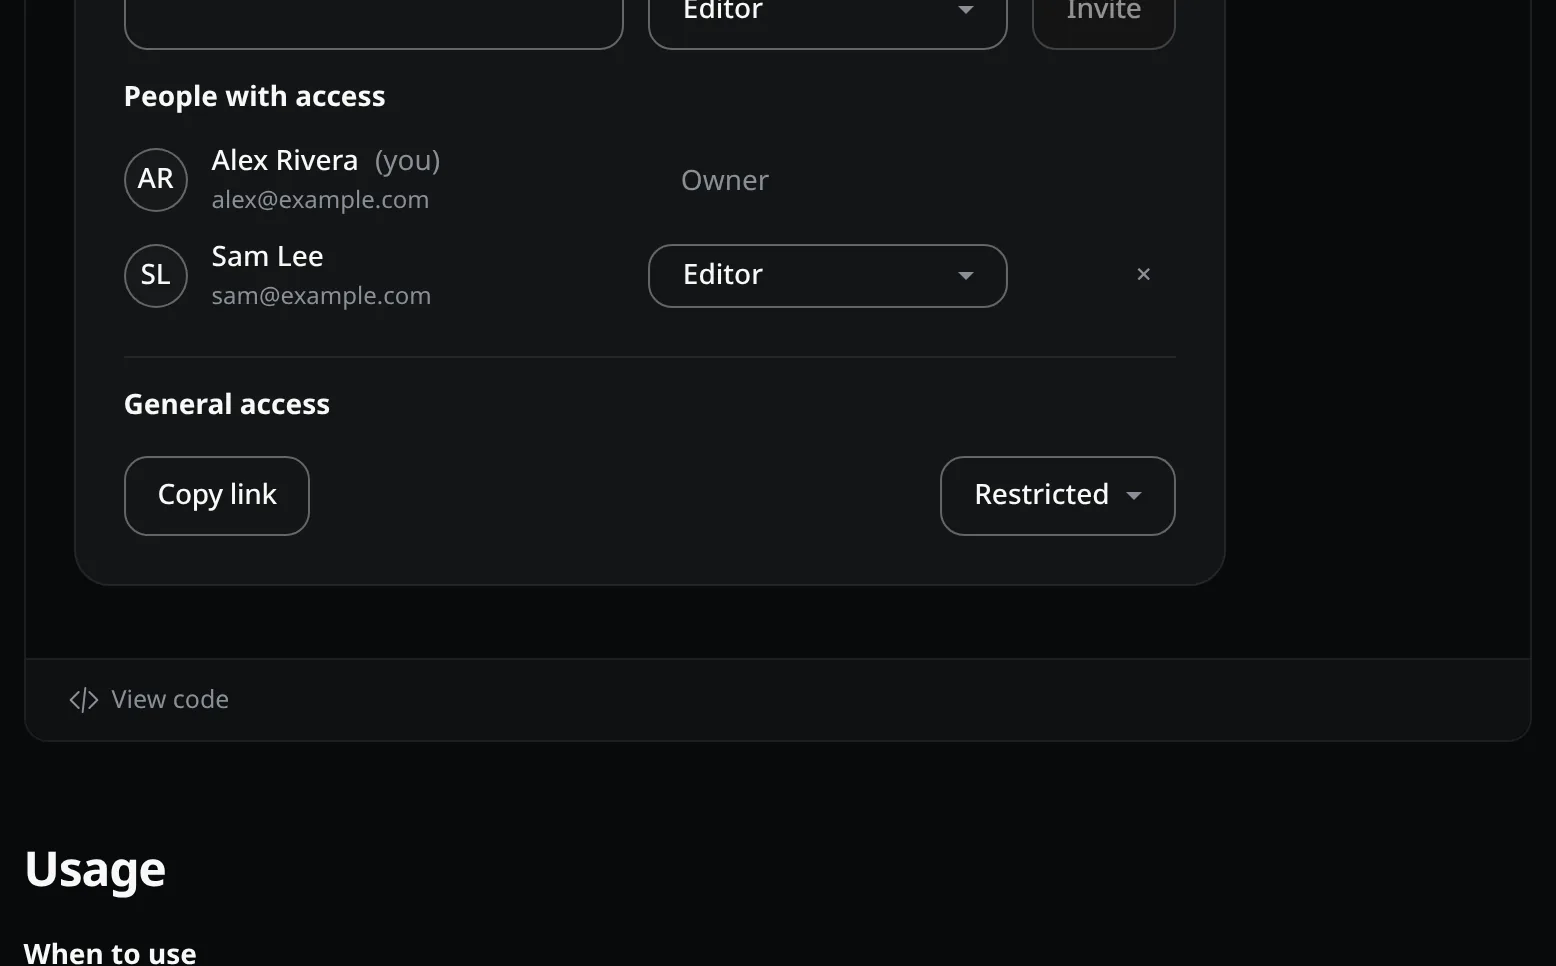
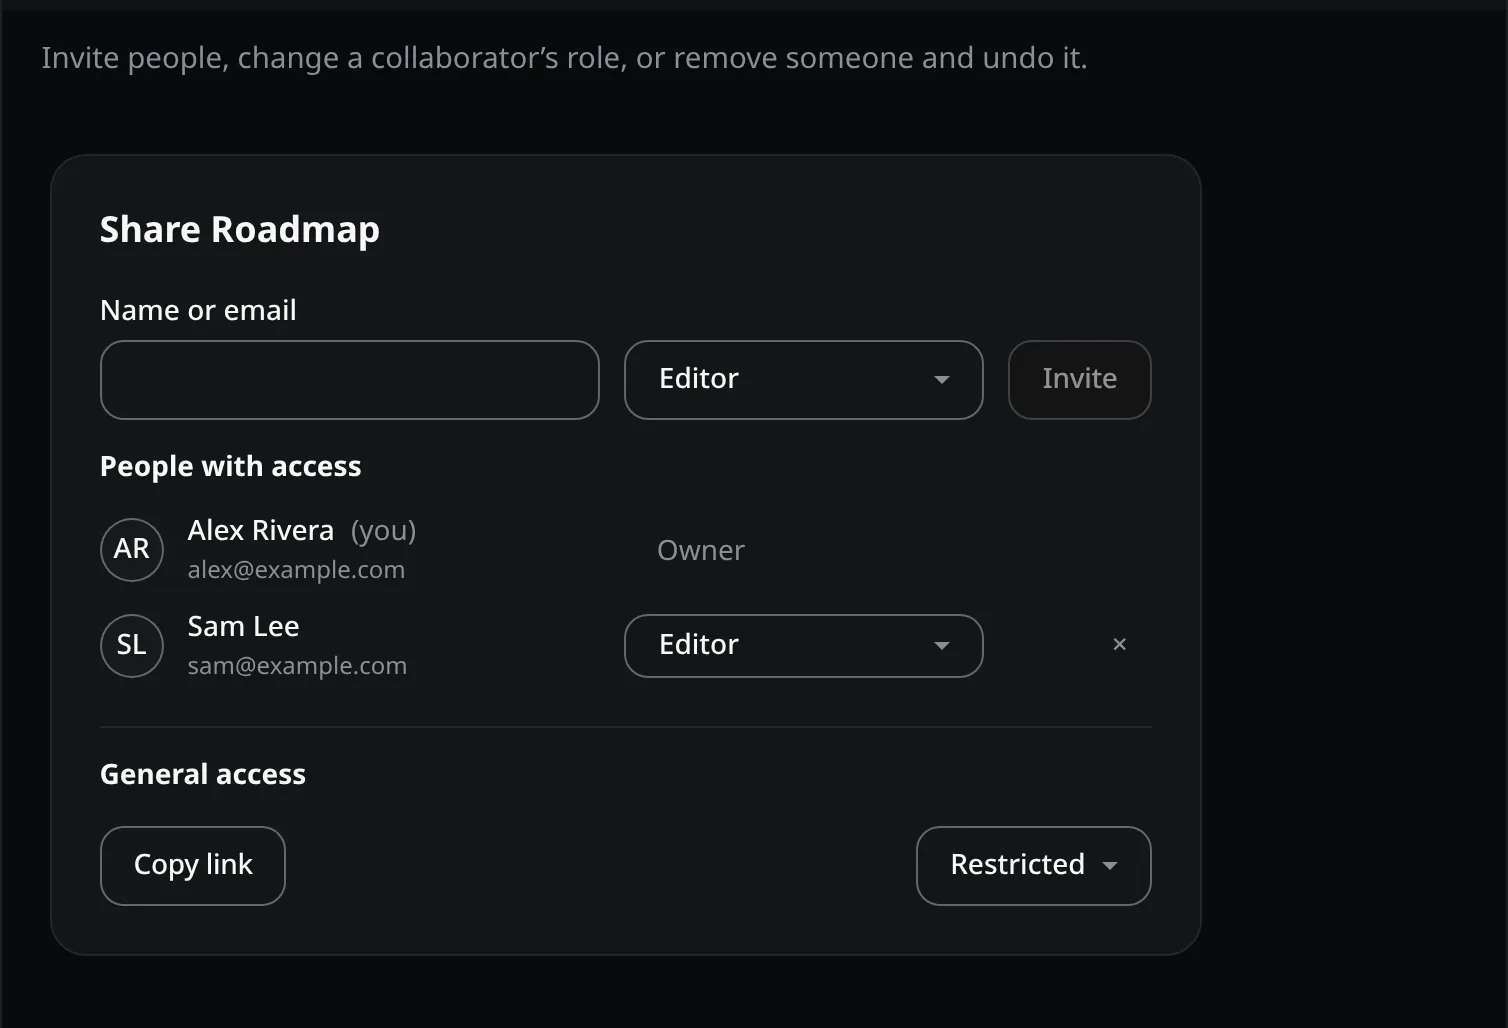
docs(readme): stack showcase captures and cap docs images to the column (GURI-3579 README showcase with real component captures)
The two-column table needed a blank header row and scrolled sideways at
3176 px. Each capture is now an image followed by its caption, and the docs
app caps images inside .guidance at the content width.

diff --git a/apps/docs/src/main.tsx b/apps/docs/src/main.tsx
@@ -1,3 +1,4 @@
 import { start } from '@jfrader/react-storydocs';
+import './main.css';
 
 start();

diff --git a/apps/docs/src/main.css b/apps/docs/src/main.css
@@ -1,0 +1,4 @@
+.guidance img {
+  max-width: 100%;
+  height: auto;
+}

diff --git a/README.md b/README.md
@@ -14,18 +14,45 @@ listed in the [changelog](CHANGELOG.md).
 
 Recorded from the component examples on [ui.jfrader.com](https://ui.jfrader.com).
 
-| | |
-| --- | --- |
-| ![TrucoTable with four seats; a hand of three cards is dealt and Truco is called](docs/showcase/truco-table.gif) | ![Chips fly from the source stack to the pot on a green felt table](docs/showcase/game-chip-stack.gif) |
-| `TrucoTable`: four seats, a dealt hand, and a Truco call. | `GameChipStack`: chips fly from the source stack to the pot. |
-| ![PokerTable with six seats, posted blinds, stacks, and a dealt hand](docs/showcase/poker-table.webp) | ![Share access panel with an invite field, people with roles, and general access](docs/showcase/share-access.webp) |
-| `PokerTable`: blinds posted and a hand dealt. | `ShareAccess`: people, roles, and general access. |
-| ![Date reel picker showing day, month, year, and time reels](docs/showcase/date-reel.webp) | ![A photo opened over a thumbnail strip with zoom and rotate controls](docs/showcase/lightbox-gallery.webp) |
-| `DateReel`: day, month, year, and time on reels. | `LightboxGallery`: a photo opened over its thumbnail strip. |
-| ![Data flow diagram from client events, database CDC, and partner webhooks through a transform engine](docs/showcase/data-flow.webp) | ![Activity rings at 83 percent with distance, exercise, and stand rows](docs/showcase/activity-rings.webp) |
-| `DataFlow`: sources through a transform engine. | `ActivityRings`: three goals, exercise past its target. |
-| ![A landscape split by a draggable divider, labeled Before and After](docs/showcase/image-compare.webp) | ![Four cards from a custom deck, each face a painted landscape](docs/showcase/deck.webp) |
-| `ImageCompare`: drag the divider or use the arrow keys. | `defineDeck`: a deck built from painted scenes. |
+![TrucoTable with four seats; a hand of three cards is dealt and Truco is called](docs/showcase/truco-table.gif)
+
+`TrucoTable`: four seats, a dealt hand, and a Truco call.
+
+![Chips fly from the source stack to the pot on a green felt table](docs/showcase/game-chip-stack.gif)
+
+`GameChipStack`: chips fly from the source stack to the pot.
+
+![PokerTable with six seats, posted blinds, stacks, and a dealt hand](docs/showcase/poker-table.webp)
+
+`PokerTable`: blinds posted and a hand dealt.
+
+![Share access panel with an invite field, people with roles, and general access](docs/showcase/share-access.webp)
+
+`ShareAccess`: people, roles, and general access.
+
+![Date reel picker showing day, month, year, and time reels](docs/showcase/date-reel.webp)
+
+`DateReel`: day, month, year, and time on reels.
+
+![A photo opened over a thumbnail strip with zoom and rotate controls](docs/showcase/lightbox-gallery.webp)
+
+`LightboxGallery`: a photo opened over its thumbnail strip.
+
+![Data flow diagram from client events, database CDC, and partner webhooks through a transform engine](docs/showcase/data-flow.webp)
+
+`DataFlow`: sources through a transform engine.
+
+![Activity rings at 83 percent with distance, exercise, and stand rows](docs/showcase/activity-rings.webp)
+
+`ActivityRings`: three goals, exercise past its target.
+
+![A landscape split by a draggable divider, labeled Before and After](docs/showcase/image-compare.webp)
+
+`ImageCompare`: drag the divider or use the arrow keys.
+
+![Four cards from a custom deck, each face a painted landscape](docs/showcase/deck.webp)
+
+`defineDeck`: a deck built from painted scenes.
 
 ## Install
 
